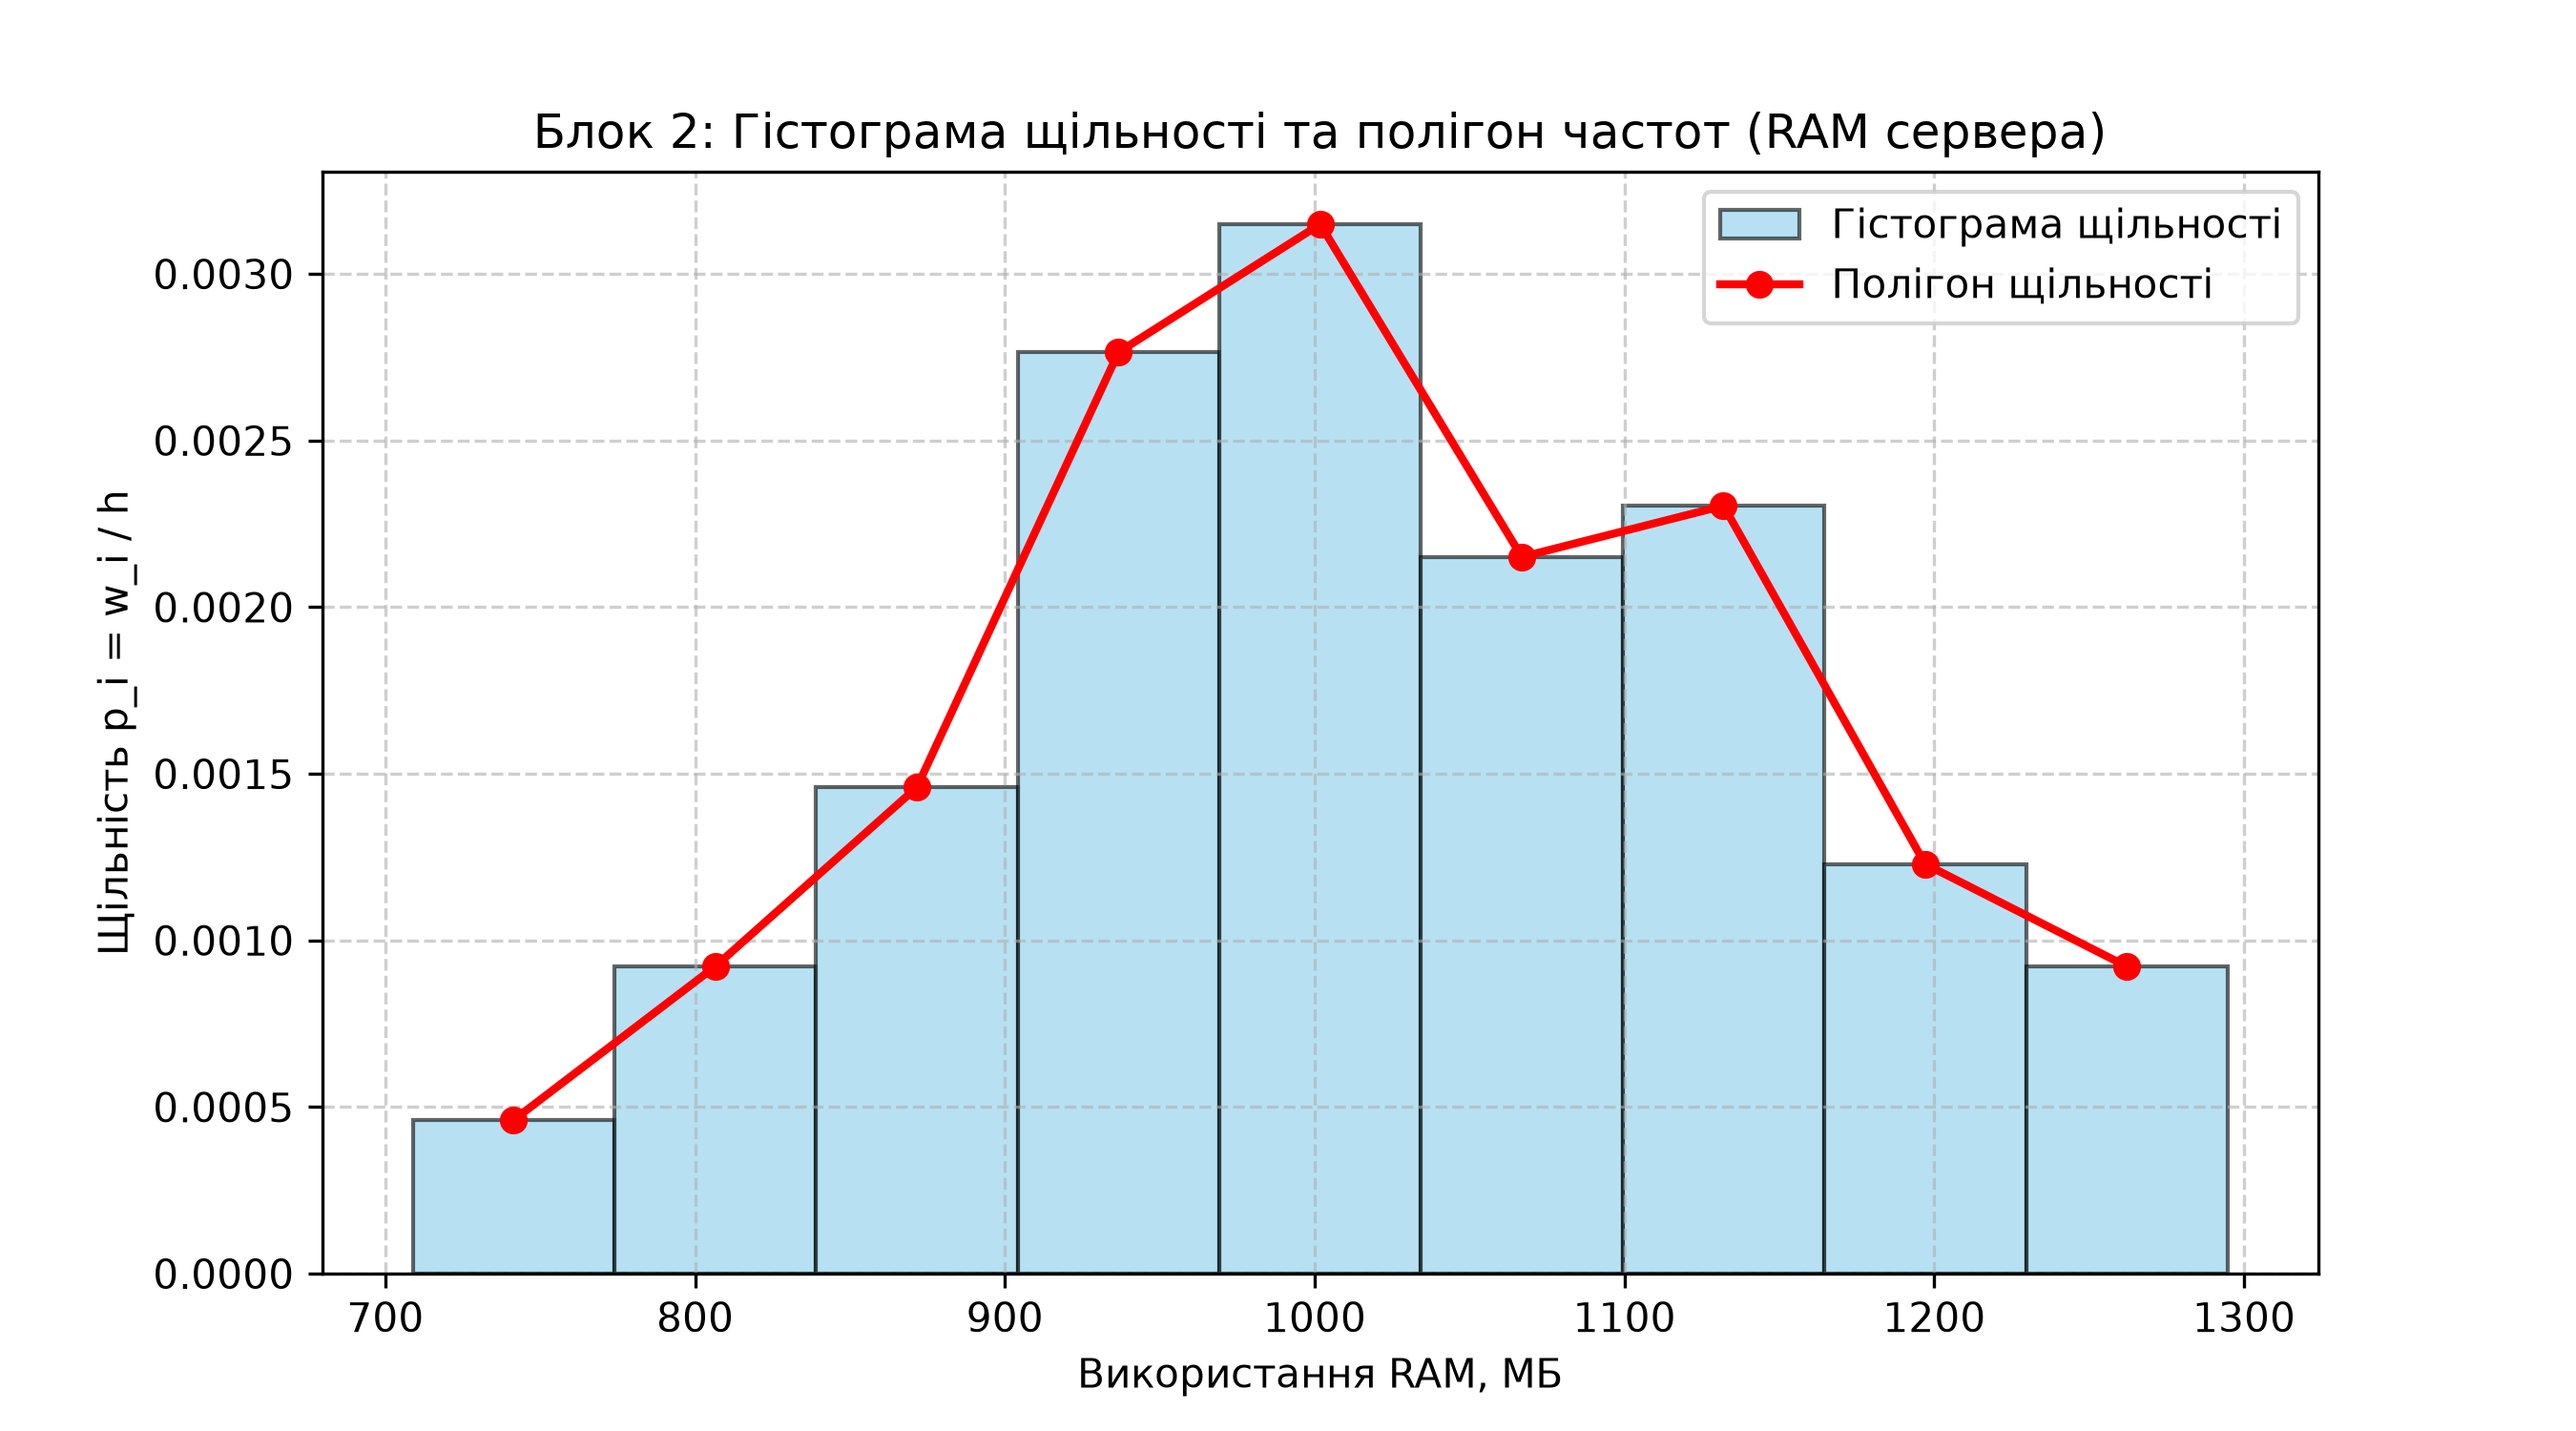
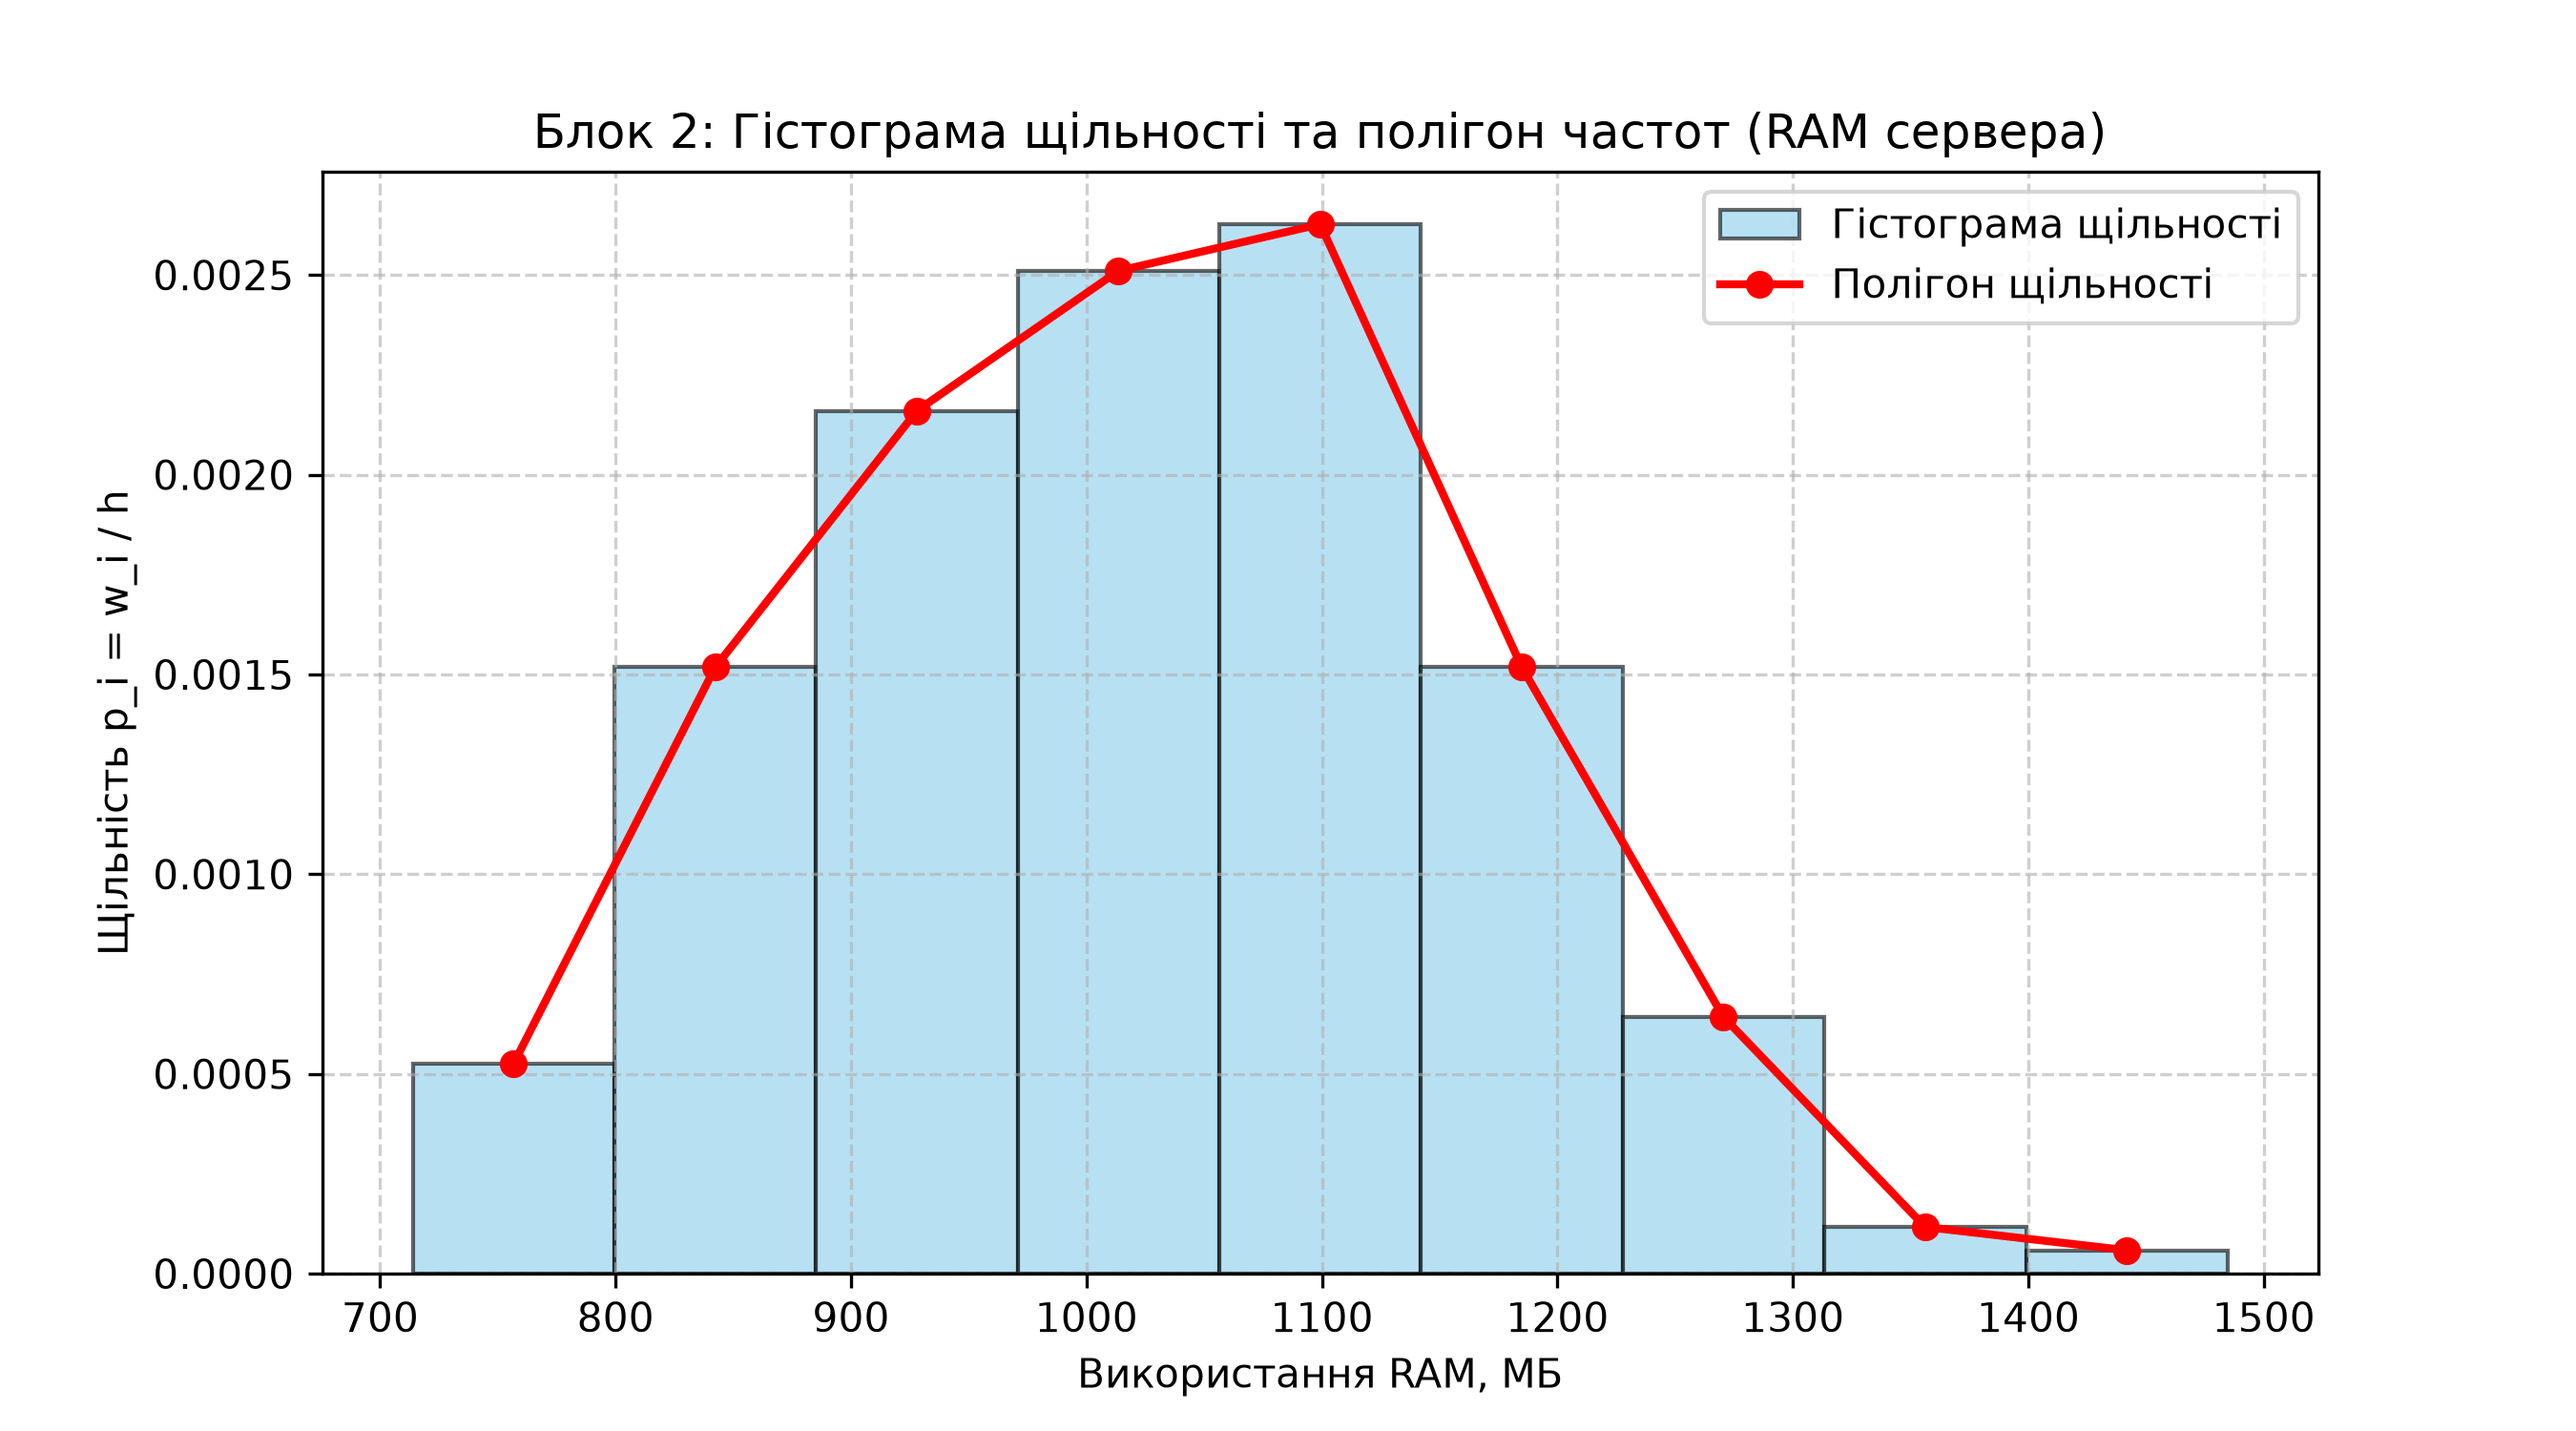
feat: block 3 outliers detection and filtering

diff --git a/src/main.py b/src/main.py
@@ -127,7 +127,59 @@ def run_block_2():
     
     return sample
 
+# =============================================================================
+# БЛОК 3: Детекція та фільтрація аномальних вимірів (Outliers)
+# =============================================================================
+def run_block_3(base_sample):
+    print("=== БЛОК 3: Детекція та фільтрація аномалій (Outliers) ===")
+    x_base_mean = np.mean(base_sample)
+    S_base = np.std(base_sample, ddof=1)
+    
+    # 1. Додаємо 10 аномальних значень, що перевищують x_bar + 5S
+    threshold_outlier = x_base_mean + 5 * S_base
+    outliers = np.random.uniform(threshold_outlier + 50, threshold_outlier + 400, 10)
+    dirty_sample = np.concatenate([base_sample, outliers])
+    
+    # 2. Характеристики спотвореної вибірки (dirty)
+    x_dirty = np.mean(dirty_sample)
+    S_dirty = np.std(dirty_sample, ddof=1)
+    med_dirty = np.median(dirty_sample)
+    Q1_d, Q3_d = np.percentile(dirty_sample, [25, 75])
+    IQR_dirty = Q3_d - Q1_d
+    
+    print(f"Спотворена вибірка (n={len(dirty_sample)}):")
+    print(f"  x_dirty = {x_dirty:.2f} | S_dirty = {S_dirty:.2f} | Медіана = {med_dirty:.2f} | IQR = {IQR_dirty:.2f}")
+    
+    # 3. Межі Boxplot та фільтрація викидів
+    lower_bound = Q1_d - 1.5 * IQR_dirty
+    upper_bound = Q3_d + 1.5 * IQR_dirty
+    print(f"Межі нормальних значень за IQR: [{lower_bound:.2f}; {upper_bound:.2f}]")
+    
+    clean_sample = dirty_sample[(dirty_sample >= lower_bound) & (dirty_sample <= upper_bound)]
+    removed_count = len(dirty_sample) - len(clean_sample)
+    print(f"Виявлено та відфільтровано викидів: {removed_count}")
+    
+    # 4. Характеристики очищеної вибірки (clean)
+    x_clean = np.mean(clean_sample)
+    S_clean = np.std(clean_sample, ddof=1)
+    med_clean = np.median(clean_sample)
+    
+    print(f"Очищена вибірка (n={len(clean_sample)}):")
+    print(f"  x_clean = {x_clean:.2f} | S_clean = {S_clean:.2f} | Медіана = {med_clean:.2f}")
+    print(f"Зміна середнього: {abs(x_dirty - x_clean):.2f} МБ | Зміна медіани: {abs(med_dirty - med_clean):.2f} МБ")
+    
+    # Побудова Boxplot
+    plt.figure(figsize=(8, 5))
+    plt.boxplot([dirty_sample, clean_sample], tick_labels=['З викидами (dirty)', 'Очищена (clean)'], patch_artist=True)
+    plt.title("Блок 3: Порівняння вибірок до та після фільтрації викидів (Boxplot)")
+    plt.ylabel("Використання RAM, МБ")
+    plt.grid(True, linestyle='--', alpha=0.6)
+    plt.savefig("graphics/block3_boxplot.png", dpi=300)
+    plt.close()
+    print("-> Графік збережено в graphics/block3_boxplot.png\n")
 
 if __name__ == "__main__":
     run_block_1()
     run_block_2()
+    ram_sample = run_block_2()
+    run_block_3(ram_sample)
